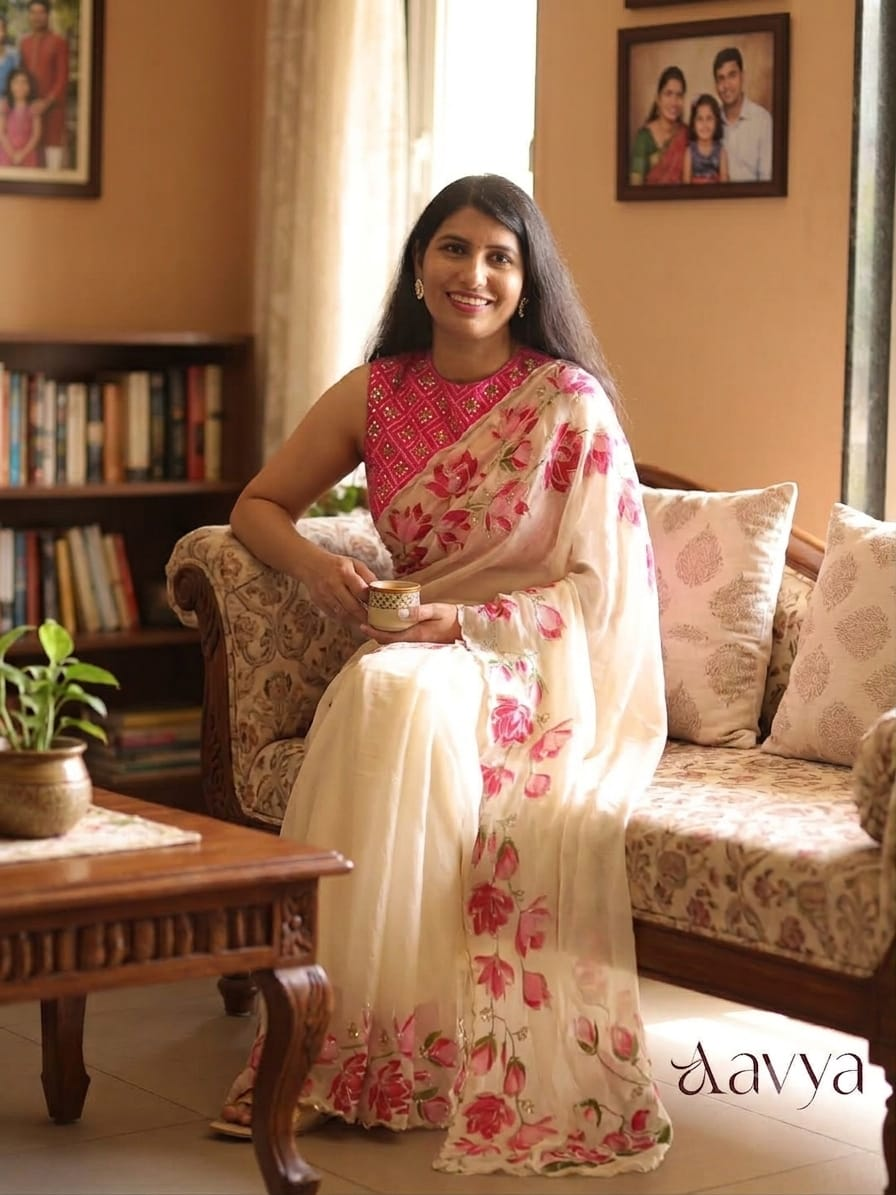
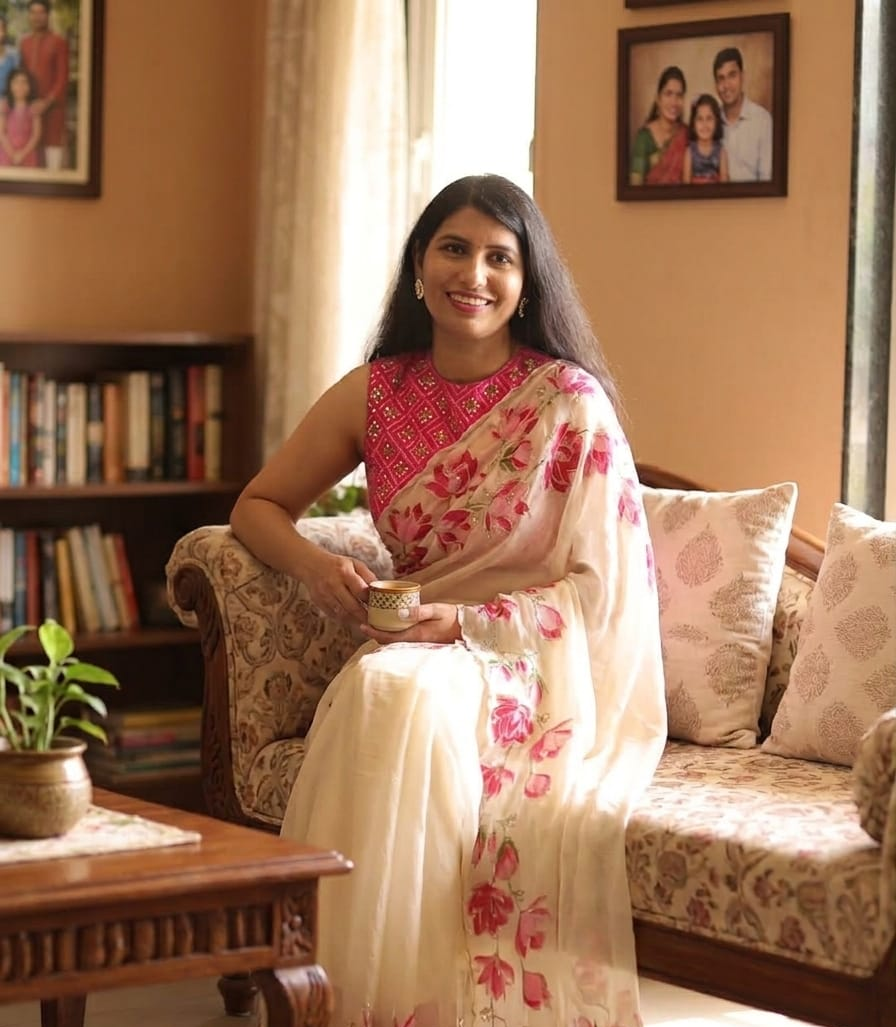
Update product details and image

diff --git a/app/product/[id]/page.tsx b/app/product/[id]/page.tsx
@@ -1627,48 +1627,6 @@ export default function ProductPage({
 
             <div className="specs">
 
-              <div className="spec">
-
-                <span>
-                  Fabric
-                </span>
-
-                <b>
-                  {product.fabric ||
-                    '—'}
-                </b>
-
-              </div>
-
-
-              <div className="spec">
-
-                <span>
-                  Color
-                </span>
-
-                <b>
-                  {product.color ||
-                    '—'}
-                </b>
-
-              </div>
-
-
-              <div className="spec">
-
-                <span>
-                  Stock
-                </span>
-
-                <b>
-                  {outOfStock
-                    ? 'Sold out'
-                    : `${product.stock} available`}
-                </b>
-
-              </div>
-
 
               <div className="spec">
 
